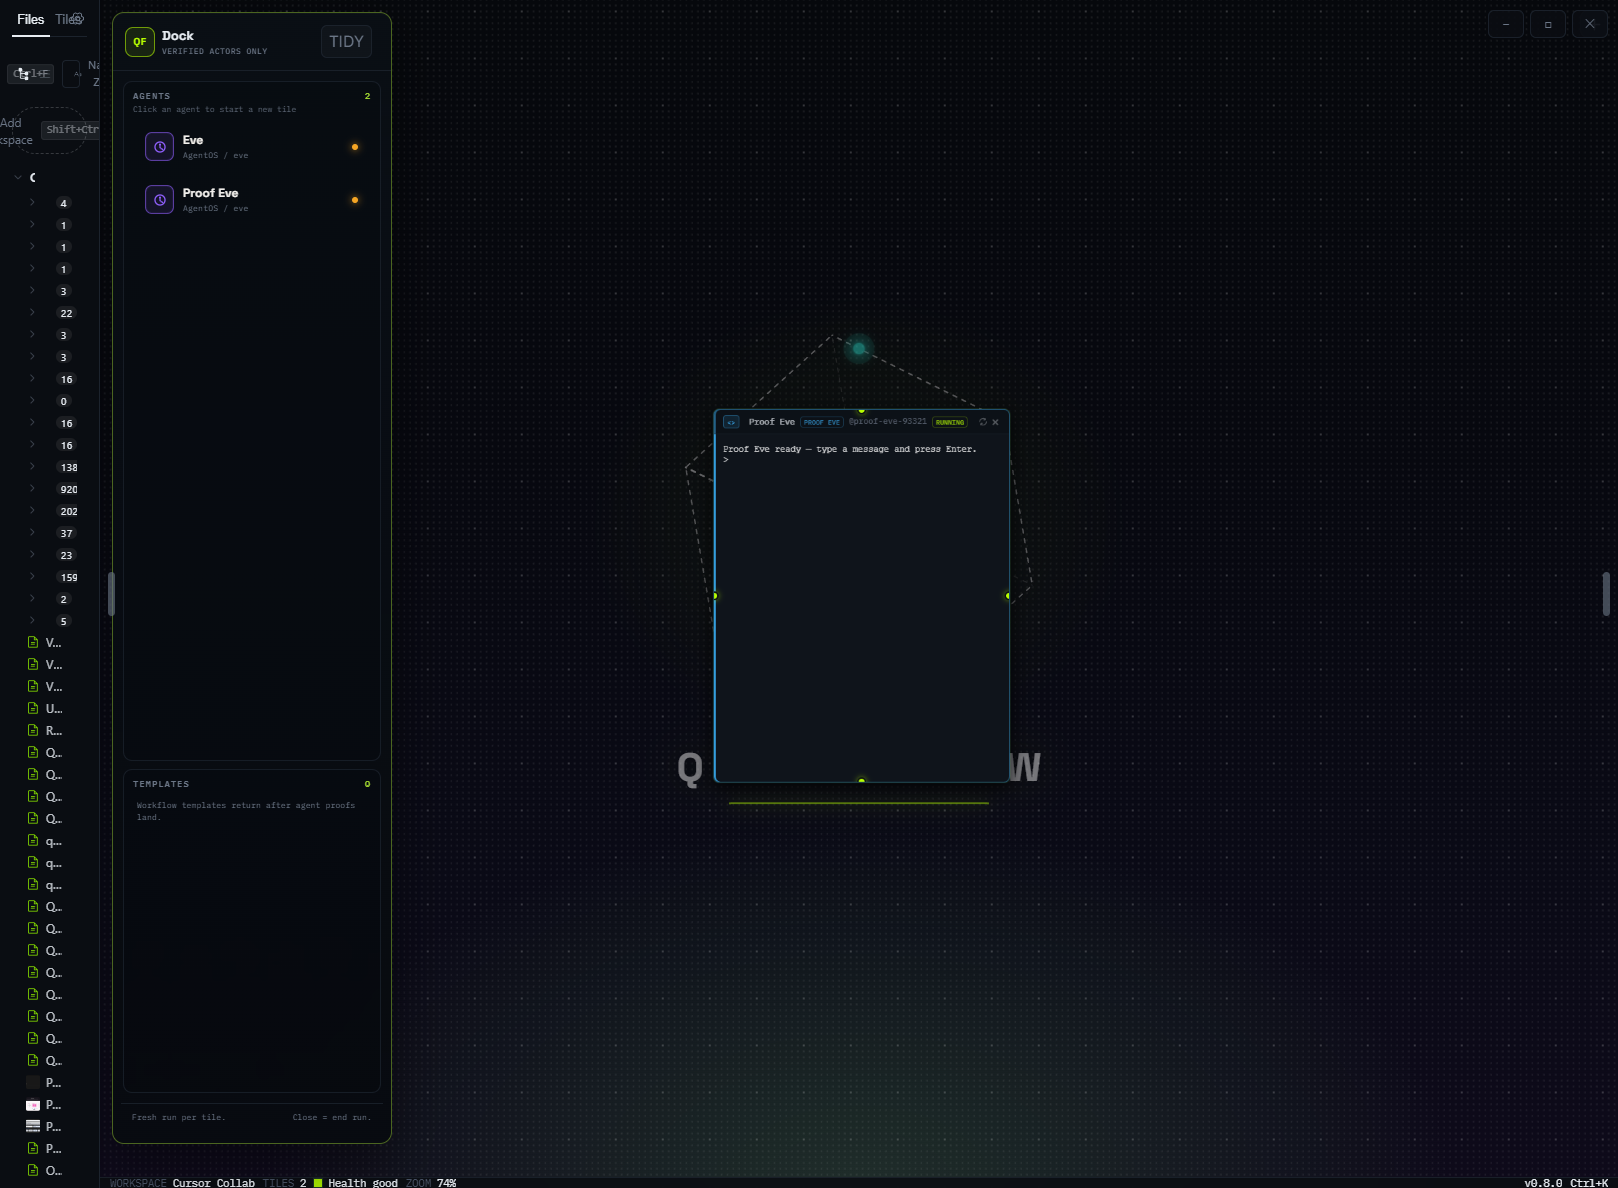
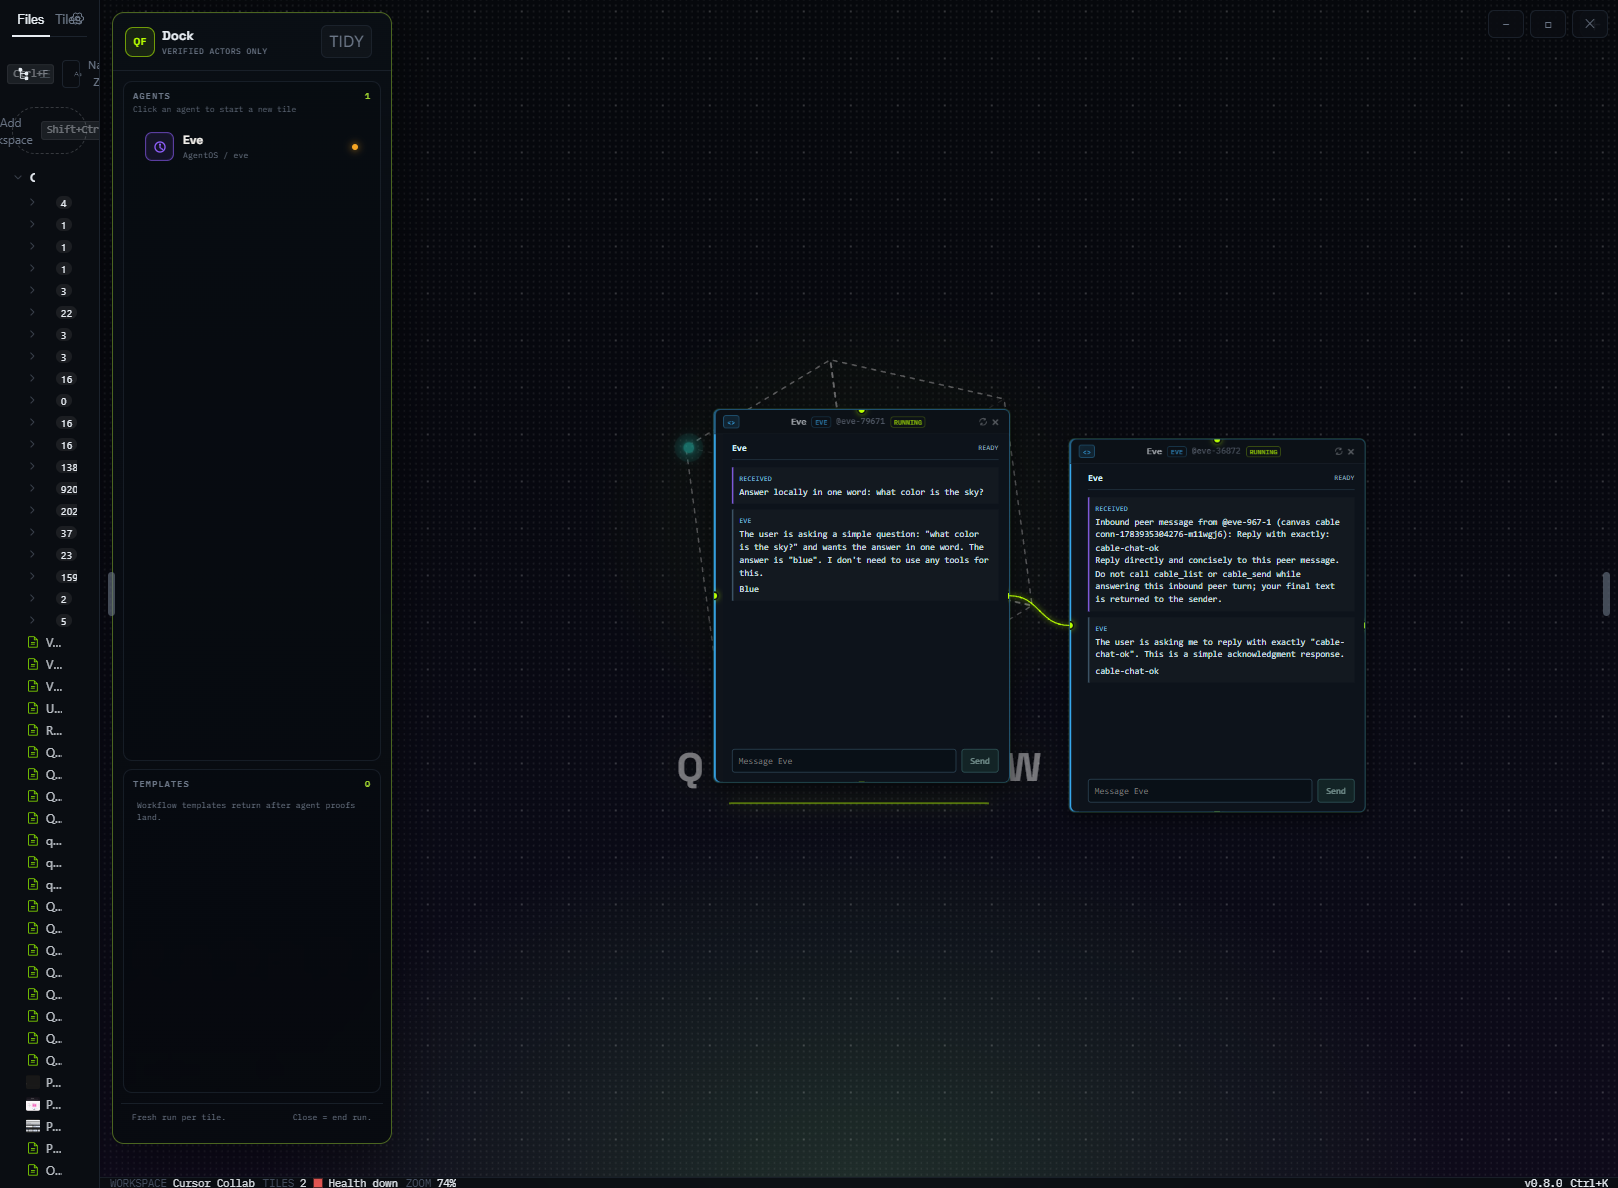
docs(v7): Eve session-tile handoff + live gate evidence V7-01..04
HANDOFF-EVE-SESSION-TILE.md supersedes T-UX-REMAINDER §4 (both native-TUI
fork paths); evidence refreshed from tonight's green runs, including the
first-ever native-collab pass (V7-04).

diff --git a/docs/v7/HANDOFF-EVE-SESSION-TILE.md b/docs/v7/HANDOFF-EVE-SESSION-TILE.md
@@ -1,0 +1,121 @@
+# HANDOFF — Eve session tile: one server-side session per tile, React session view, TUI rail retired
+
+**Date:** 2026-07-12 · **Branch:** `quantflow-v7-agentos-anchor` @ `c586e28` (+ uncommitted working tree, see §2) · **Repos:** `QuantFlow` + `quantflow-eve`
+**Driver:** founder, in the Codex app. This document is the single authority for this work.
+
+> **SUPERSEDES:** `docs/v7/HANDOFF-T-UX-REMAINDER.md` **§4 (U1, both fork paths)**. Fork (b) — host-side `eve dev --url` PTY rail — was BUILT (it's the uncommitted tree) and live-tested on 2026-07-12. It renders beautifully and is architecturally wrong: it created the split-session defect below. Do not iterate on it; do not build fork (a) either. Everything else in HANDOFF-T-UX-REMAINDER (§5 native-collab close-out, §6 commit rules, §7 manual exit shape, §9 gotchas, §10 parked queue) **remains valid** and is incorporated by reference. Plan 002 remains valid U2–U6 reference.
+
+---
+
+## 0. Paste-to-Codex kickoff
+
+```
+Repo: C:\Users\rybow\QuantFlow (branch quantflow-v7-agentos-anchor) + C:\Users\rybow\quantflow-eve
+Read docs/v7/HANDOFF-EVE-SESSION-TILE.md fully — it is the new authority; it supersedes
+HANDOFF-T-UX-REMAINDER §4 (the native-TUI rung, both forks) and keeps the rest of that doc valid.
+
+Task order:
+1. §5 E1: eve-acp persistent session fix (quantflow-eve first, rebuild .aospkg, commit on green).
+2. §5 E2: session broker design — STOP and report the design BEFORE building (founder gate).
+3. §5 E3: Eve session tile view (React, eve/react useEveAgent) after E2 approval.
+4. §5 E4: delete the eve-dev TUI PTY rail (keep the warm pool and eve-server supervisor).
+5. §5 E5: gates green incl. agentos-eve-native-collab; assertions never weakened.
+Commit rules = HANDOFF-T-UX-REMAINDER §6. Never touch DOCK_SPAWN_ACTOR_IDS.
+Respect every §9 gotcha there plus §7 here. One Electron gate at a time, never mid-edit.
+```
+
+---
+
+## 1. The defect this rerail fixes (verified live 2026-07-12, real shortcut-launched app)
+
+A2A dispatch WORKS: tile A ran `cable_list` → `cable_send`, got B's answer ("four"), reported it. Tile B stayed **visually blank**. Root cause is structural, not a bug in the relay:
+
+- Each Eve tile runs ONE Eve server (WSL, `eve start`, per-actor port) with **two independent clients** attached:
+  1. the guest ACP adapter (`quantflow-eve/agentos/eve-acp/index.js`) — carries human ACP prompts and A2A deliveries;
+  2. the `eve dev --url` TUI PTY (`tools/agentos-host/eve-supervisor.js` → `openEveTuiForActorKey`) — what the operator sees.
+- Worse than "two sessions": the adapter's `createTurn` (index.js ~131) POSTs `/eve/v1/session` with only `{message}` — **every prompt creates a brand-new Eve session**. N+1 sessions per tile.
+- The TUI cannot attach to an existing session: `eve dev --help` has no `--session`; Eve docs state "each terminal UI creates a fresh client session while sharing the server process."
+- The tile's session-event render rail is deliberately OFF for Eve (`usesNativeTerminal('eve')`, `agentos-terminal-bridge.ts:122` / `:243`), so A2A activity has no path to the visible pane at all.
+
+Blank tile B is exactly what this architecture must produce. **Eve is server-native** (conversation = server-side durable session; the TUI is a dev-time viewer), so the fix is to make the session the single source of truth and render IT — not to force a terminal shape.
+
+## 2. Honest ledger (working tree = fork (b); salvage list is explicit)
+
+| Work | State | Disposition |
+|------|-------|-------------|
+| U5/U6 transport, `/cable`, bite 1 framing/discovery/tripwire | ✅ committed `d69ec3a` `bf4f131` `f37b9ab` `c586e28` | untouched — coordination rail stays exactly as is |
+| Warm Eve pool (`prewarmEve`/`adoptWarmEve` in eve-supervisor.js, uncommitted) | 🟡 in tree, works | **KEEP** — server pool is needed regardless of display rail |
+| `eve dev` TUI PTY rail (`openEveTuiForActorKey`/`writeEveTui`/`resizeEveTui`/`closeEveTui`, host.js `eve-tui` terminal kind, bridge `usesNativeTerminal` branch) | 🟡 in tree, works visually, architecturally superseded | **DO NOT COMMIT** — deleted in E4 |
+| U4 Eve `cable_list`/`cable_send` tools (`quantflow-eve/agent/tools/`) | 🟡 untracked, reviewed, in bundle | commit per HANDOFF-T-UX-REMAINDER §6 (eve repo first) |
+| U6 `agentos-eve-native-collab` proof + wiring | 🟡 in tree, never passed live | **KEEP**, assertions unchanged; goes green in E5 |
+| eve-acp persistent session | 🔴 not started | E1 |
+| Session broker + React session tile | 🔴 not started | E2/E3 |
+
+## 3. Platform facts the plan rests on (all verified in installed code 2026-07-12 — do not re-litigate)
+
+1. `POST /eve/v1/session/:sessionId` exists (continue an existing session externally); `GET /eve/v1/session/:sessionId/stream` is index-based NDJSON with reconnect. (`eve/dist/src/public/channels/eve.js`, eve 0.11.8)
+2. Eve's official client (`eve/client`, `ClientSession`) manages `sessionId` + `continuationToken` + `streamIndex` — the exact cursor semantics E1 must adopt.
+3. `eve/react` ships `useEveAgent` — **headless** hook with `host` (absolute origin → the tile's Eve baseUrl) and `initialSession: SessionState` (**resumable cursor = attach to existing session**), plus `send`/`stop`/`reset`, optimistic projection, reconnect. (`eve/dist/src/react/use-eve-agent.d.ts`)
+4. QuantFlow's renderer is React 19.2.4 — the hook drops in directly.
+5. Founder-locked framing: no `/cable`-style text injection into a foreign conversation, ever; QuantFlow visualizes real AgentOS/Eve state only.
+
+## 4. Target architecture (one sentence per layer)
+
+**One Eve server per tile (unchanged, warm pool kept) → ONE durable Eve session per tile = the single source of truth → the ACP adapter is the only Eve writer and continues that session (human ACP prompts and A2A deliveries land in it) → the host broker serializes AgentOS prompts and read-only tails the stream → the tile renders that session with a React view instead of a PTY.** Terminal-native agents (Codex CLI, Claude Code, pi, opencode) keep PTY/ACP tiles; server-native agents get session tiles. Two tile flavors, one AgentOS encasement.
+
+## 5. Work order (dependency-ordered; commit per slice on green)
+
+### E1 — eve-acp persistent session (small, a real bug regardless of everything else)
+
+`quantflow-eve/agentos/eve-acp/index.js`: per ACP `sessionId`, create the Eve session ONCE (first prompt), store `{eveSessionId, continuationToken}`, and send every subsequent turn via `POST /eve/v1/session/:eveSessionId` with the continuation semantics Eve's own `client/session.js` uses. Preferred: import Eve's official client (`eve/client` `ClientSession`) inside the adapter if aospkg bundling allows; otherwise mirror its cursor handling manually. Update `eve-acp/index.test.js` to pin: two prompts on one ACP session hit ONE Eve session.
+**Gotcha:** the host loads `quantflow-eve/agentos/dist/package.aospkg` — rebuild the package (see `quantflow-eve/agentos/scripts/`) after any adapter change, same failure class as HANDOFF-T-UX-REMAINDER §9.1 (stale bundle = old behavior, silently).
+**Exit:** adapter tests green + a2a/multispawn gates green. Commit `quantflow-eve` first.
+
+### E2 — session broker (STOP AND REPORT DESIGN BEFORE BUILDING — founder gate)
+
+Requirements the design must satisfy; the mechanism is yours to propose:
+- The adapter and the tile view resolve the **same** Eve `sessionId` for a tile (e.g. adapter reports the sessionId to the host on create, host registry keyed by actor key; or host pre-creates the session — note `POST /eve/v1/session` requires a message, so lazy-create-on-first-turn + registry is likely the shape).
+- **Per-tile turn serialization:** a human turn and a peer (A2A) turn must never race. ALL writes funnel through the host queue into AgentOS's prompt rail; the ACP adapter is the sole process that POSTs Eve turns and owns the continuation cursor. The broker never writes directly to Eve.
+- The adapter reports `eveSessionId` once at first create. The renderer obtains the broker's read-only `{sessionId, events, revision}` projection; the broker tails `GET /session/:id/stream` and publishes update revisions without remounting the tile per event.
+- Coordination rail (`/cable/*`, framing, `additionalInstructions`) untouched.
+
+### E3 — Eve session tile view (after E2 approval)
+
+New React component in `quantflow-electron` for Eve tiles: `useEveAgent({ host: tileEveBaseUrl, initialSession })`; render messages, reasoning, and tool calls in QuantFlow's design language (hook is headless — the visuals are ours; plain first pass is fine, no synthetic `>` prompt chrome, no fake banners). Tile input sends into the same session via the E2 funnel. Inbound peer turns must render live: received → working → replied.
+**Known dependent:** the `agentos-eve-cable-chat` gate drives the ACP line editor's `/cable` path — give it a valid input path on the new surface (route `/cable` through the E2 funnel or drive the coordination rail directly); do not delete the gate.
+
+### E4 — retire the TUI PTY rail (only after E3 is proven on canvas)
+
+Delete: `openEveTuiForActorKey`/`writeEveTui`/`resizeEveTui`/`closeEveTui` + `runningTuis`/`tuiByShellId` (eve-supervisor.js), the `eve-tui` terminal kind (host.js), `usesNativeTerminal` special-casing (agentos-terminal-bridge.ts). Keep: `ensureEveForActorKey`, warm pool, `stopEveForActorKey`, port allocation — the server supervisor is permanent. Update eve-supervisor tests.
+
+### E5 — proofs green (assertions never weakened)
+
+```sh
+bun qa/run.ts agentos-toolkit-envelope
+bun qa/run.ts agentos-eve-multispawn
+bun qa/run.ts agentos-eve-a2a
+bun qa/run.ts agentos-eve-cable-chat      # with its E3 input path
+bun qa/run.ts agentos-eve-native-collab   # the U6 close-out — code exists, see HANDOFF-T-UX-REMAINDER §5 env notes
+```
+
+Extend `agentos-eve-native-collab` (or add a sibling) with the NEW exit assertion this rerail exists for: **tile B's rendered view contains the inbound framed peer message and B's reply** — not just B's persisted session events.
+
+## 6. Founder manual exit (~10 min, after E5)
+
+1. Spawn Eve A + B from the dock; cable them. Tiles show the session view (live conversation, no `"Eve ready"` banner, no fake `> `).
+2. In A: `Ask your cabled peer what 2 + 2 is and tell me their answer.`
+3. Pass: A's tile shows her choosing the cable tool; **B's tile visibly shows the inbound `Message from cabled agent @…`, working state, and B's reply**; A reports "my peer says 4."
+4. Type a normal human message into B before and after — same conversation, one cursor, no phantom turns.
+5. Delete the cable, repeat → A reports no peers.
+
+## 7. Gotchas (additive to HANDOFF-T-UX-REMAINDER §9, which all still apply)
+
+1. **Stale `.aospkg` = stale adapter.** Any `quantflow-eve/agentos/**` change needs the package rebuild before host restart; symptom is "fix didn't take."
+2. **`useEveAgent` rejects `send` while a turn is in flight** (client-side only) — that does NOT serialize cross-client writers; E2's funnel is the real serializer.
+3. **Session config is read when the hook's store is created** — remount the tile component to point at a different host/session; don't mutate options in place.
+4. **Warm-pool adoption re-keys the server, not the session** — sessions are created lazily per tile after adoption; the broker registry must key by actor key (workspaceId+tileId), never by port.
+5. **Never assert Electron relay logs for agent-initiated sends** (HANDOFF-T-UX-REMAINDER §9.6) — assert persisted session events and, new in E5, the rendered view.
+
+## 8. Parked (unchanged)
+
+T-PERF relay-actor warm pool (Rivet keying trap noted), U8 DOX (now also: document the session-tile architecture + two tile flavors in `tools/agentos-host/AGENTS.md`), U7 promotion (founder-only, `DOCK_SPAWN_ACTOR_IDS`), Omnigent (L6 supervision only). Upstream nice-to-have, non-blocking: file `eve dev --session <id>` attach request with Vercel — if it ever ships, it's a debug convenience, not a dependency.
